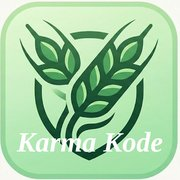
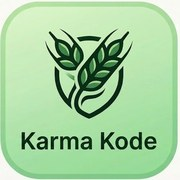
Add files via upload

diff --git a/index.html b/index.html
@@ -4,8 +4,8 @@
 <meta charset="UTF-8">
 <meta name="viewport" content="width=device-width, initial-scale=1.0">
 <title>Karma Kode - Karkirurgi</title>
[4 lines of base64/hex data omitted]
 <meta name="apple-mobile-web-app-capable" content="yes">
 <meta name="apple-mobile-web-app-status-bar-style" content="default">
 <meta name="apple-mobile-web-app-title" content="Karma Kode">
@@ -1209,18 +1209,14 @@ footer.note {
   });
 
   // "Forslag" button: opens a pre-filled GitHub issue for the repo,
-  // including the current search query as context (if any).
+  // including the current search query as context (if any), pre-filled
+  // into the Google Form (if it has a matching text field).
   const feedbackBtn = document.getElementById("feedbackBtn");
   if (feedbackBtn) {
     feedbackBtn.addEventListener("click", (ev) => {
       ev.preventDefault();
-      const repo = "legerutengenser/Karma-Kode";
-      const q = currentQuery.trim();
-      const title = q ? `Forslag: søk på "${q}"` : "Forslag til Karma Kodehjelp";
-      const body = q
-        ? `Søket var: "${q}"\n\nBeskriv forslaget ditt (f.eks. ny synonym, vekting, eller manglende treff):\n`
-        : "Beskriv forslaget ditt (f.eks. ny synonym, vekting, eller manglende treff):\n";
-      const url = `https://github.com/${repo}/issues/new?title=${encodeURIComponent(title)}&body=${encodeURIComponent(body)}`;
+      const formId = "1icbXZivot9tzJ_Uu4iCoJm72bssw5JNjgCzuDbdgYyE";
+      const url = `https://docs.google.com/forms/d/${formId}/viewform`;
       window.open(url, "_blank", "noopener");
     });
   }

diff --git a/sw.js b/sw.js
@@ -2,7 +2,7 @@
 // Bump CACHE_VERSION every time index.html (or this file) changes.
 // On activation, all caches from previous versions are deleted automatically.
 
-const CACHE_VERSION = "v3";
+const CACHE_VERSION = "v4";
 const CACHE_NAME = "karma-kodehjelp-" + CACHE_VERSION;
 
 const ASSETS = [